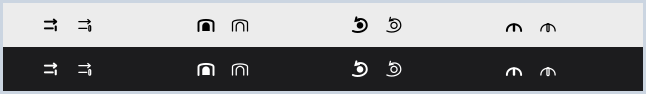
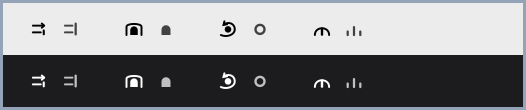
docs(design): make the idle menu bar state legible at 18px
Owner feedback, and correct: the hollow-outline idle state could not be told
apart from active at real size — you never get to compare them side by side in
a menu bar, which is the only way the difference showed.

Idle is now a different SILHOUETTE rather than a lighter one: the obstacle
stays, the traffic disappears (Lanes drops its arrow and stops at the wall,
Tunnel loses the line over the top, Orbit falls to a bare ring, Arch collapses
to its feet). Dimming is applied on top, but shape alone carries the state.

Dashed and dimmed-only treatments were built and tested at true 18px first;
dashed fragmented into mush and hollow still read as active.

diff --git a/docs/design/IDENTITY-PROPOSALS.md b/docs/design/IDENTITY-PROPOSALS.md
@@ -17,10 +17,28 @@ Each block shows, left to right: **menu bar (active)** · **menu bar (idle)** ·
 
 ## The decision that matters most: the menu bar at real size
 
-An 18-pixel glyph is where most icons fall apart, so judge here first. This is actual size, on
-both a light and a dark menu bar, with the active and idle state of each direction side by side:
+An 18-pixel glyph is where most icons fall apart, so judge here first. Actual size, on a light
+and a dark menu bar — **active** then **idle** for each direction:
 
 ![Menu bar icons at actual size](images/menubar-actual-size.png)
+
+### How idle is shown (revised)
+
+The first attempt made idle a hollow outline of the same mark. At 18px that was **not
+distinguishable from active** — you could not tell whether the app was routing without
+comparing the two side by side, which you never get to do in a real menu bar.
+
+So idle is now a **different silhouette, not a lighter one**: the obstacle stays, the traffic
+disappears. Lanes loses its arrow and stops at the wall; Tunnel loses the line going over it;
+Orbit's swoosh drops to a bare ring; Arch's span collapses to its feet. A small dim is applied
+on top, but the shape alone carries the state — no comparison required.
+
+Three treatments were built and tested at true size before choosing (active, dimmed, hollow,
+dashed — left to right per direction):
+
+![Idle treatments tested](images/idle-treatments-tested.png)
+
+Dashed fragments turned to mush and hollow read as active; only a real silhouette change worked.
 
 ---
 
@@ -31,8 +49,9 @@ in these proposals:
 
 - **The count is removed.** It moved with DNS churn rather than with anything you did, so at a
   glance it was noise.
-- **State is the same mark, filled or hollow.** Solid = actively routing. Hollow = idle or no
-  VPN. One shape, two weights — nothing flips to a different icon, and there is no badge.
+- **State is the same mark, whole or reduced.** Complete mark = actively routing. Reduced mark
+  (obstacle only, traffic gone) = idle or no VPN. Same family, no badge, and legible at 18px
+  without comparing against anything.
 - A problem (helper down, nothing being enforced) is the only case that changes anything more,
   and it is stated in words in the dropdown rather than encoded in a glyph.
 
